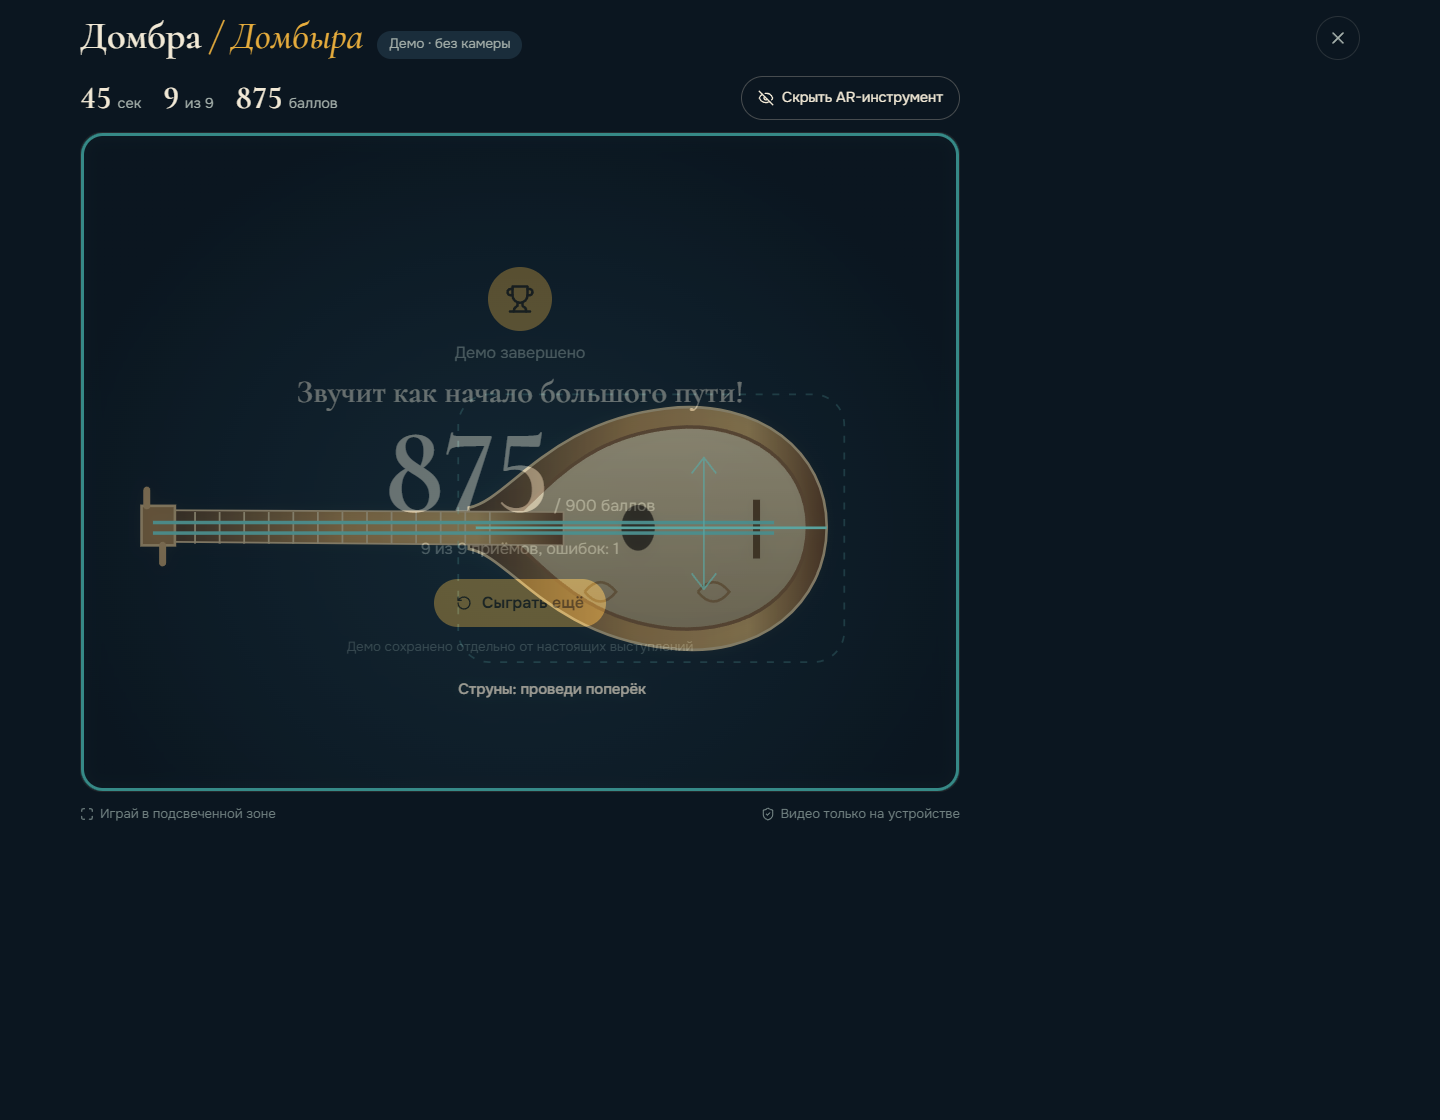
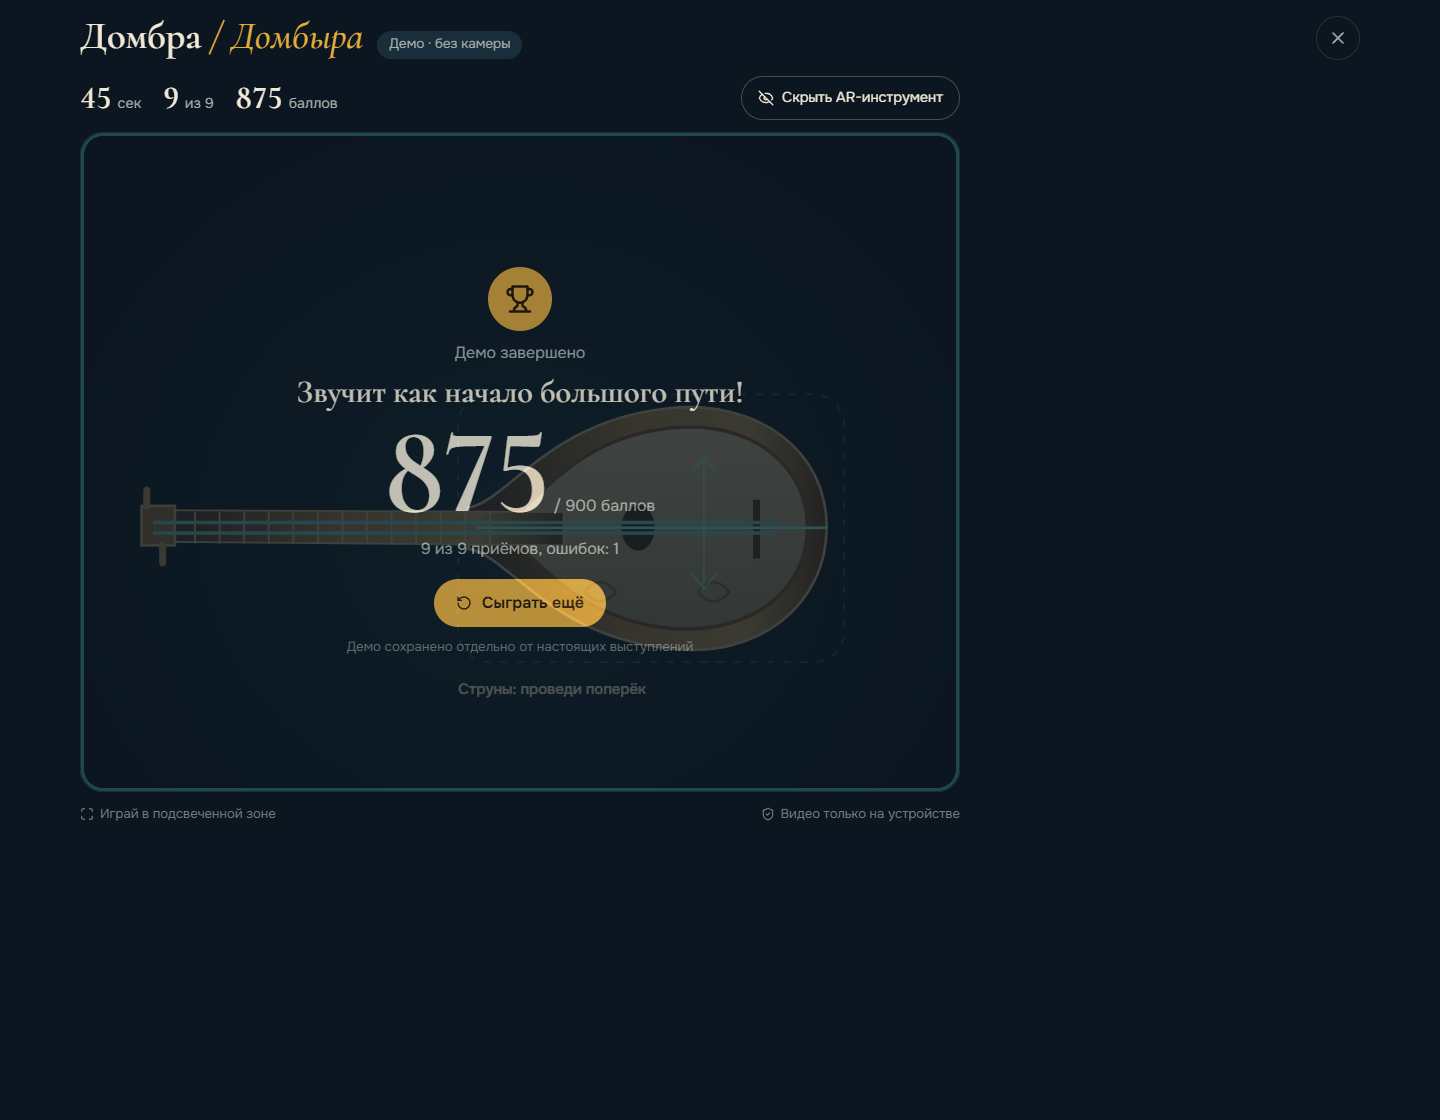
optimization and mobile port

Changed region(s): [[0.0938, 0.2188, 0.5938, 0.625]]

diff --git a/src/styles.css b/src/styles.css
@@ -1,5 +1,3 @@
-@import url('https://fonts.googleapis.com/css2?family=Cormorant:ital,wght@0,500;0,600;0,700;1,500;1,600&family=Onest:wght@400;500;600;700&display=swap');
-
 /* ── Tokens ───────────────────────────────────────────────
    night  – the steppe after dark, the stage everything plays on
    bone   – felt and paper, for text and lit surfaces
@@ -117,7 +115,7 @@ h3.display { font-size: clamp(1.6rem, 2.6vw, 2.1rem); line-height: 1.08; }
   border-radius: 50% 50% 22px 22px / 240px 240px 22px 22px;
   border: 1px solid var(--line);
   background: radial-gradient(120% 70% at 50% 18%, var(--tint), transparent 70%), var(--felt);
-  animation: arch-rise 520ms var(--ease) both;
+  animation: arch-rise 420ms var(--ease) both;
   animation-delay: calc(var(--i, 0) * 70ms + 80ms);
 }
 .arch.sand { --tint: #5b3f1d; }
@@ -126,7 +124,7 @@ h3.display { font-size: clamp(1.6rem, 2.6vw, 2.1rem); line-height: 1.08; }
 @keyframes arch-rise { from { opacity: 0; transform: translateY(24px); } to { opacity: 1; transform: none; } }
 .arch-tools { position: absolute; z-index: 2; top: 24px; left: 0; right: 0; display: flex; justify-content: center; gap: 8px; }
 .arch-art { flex: 1; display: grid; place-items: center; padding: 64px 24px 0; }
-.arch-art .instrument-art { width: min(78%, 250px); height: auto; transition: transform 320ms var(--ease); filter: drop-shadow(0 22px 28px rgb(0 0 0 / .35)); }
+.arch-art .instrument-art { width: min(78%, 250px); height: auto; transition: transform 240ms var(--ease); filter: drop-shadow(0 22px 28px rgb(0 0 0 / .35)); }
 .arch-body { padding: 8px 28px 28px; display: grid; gap: 6px; text-align: center; justify-items: center; }
 .arch-name { font-family: var(--serif); font-weight: 600; font-size: 2.6rem; line-height: 1; letter-spacing: -.01em; }
 .arch-kz { font-family: var(--serif); font-style: italic; font-size: 1.2rem; color: var(--gold); }
@@ -207,7 +205,7 @@ h3.display { font-size: clamp(1.6rem, 2.6vw, 2.1rem); line-height: 1.08; }
 .about-instrument p { color: var(--bone-dim); }
 
 /* ── Dialog: QR ───────────────────────────────────────── */
-.modal-backdrop { position: fixed; inset: 0; z-index: 60; display: grid; place-items: center; padding: 20px; background: rgb(5 10 15 / .72); backdrop-filter: blur(6px); animation: fade-in 200ms ease-out; }
+.modal-backdrop { position: fixed; inset: 0; z-index: 60; display: grid; place-items: center; padding: 20px; background: rgb(5 10 15 / .72); backdrop-filter: blur(6px); animation: fade-in 200ms var(--ease); }
 .qr-modal { width: min(440px, 100%); max-height: 100%; overflow: auto; padding: 28px; border-radius: 26px; background: var(--felt); border: 1px solid var(--line-strong); display: grid; gap: 14px; animation: pop-in 240ms var(--ease); }
 .modal-header { display: flex; align-items: center; justify-content: space-between; gap: 12px; }
 .qr-modal h2 { font-family: var(--serif); font-size: 2rem; font-weight: 600; line-height: 1.05; }
@@ -223,7 +221,7 @@ h3.display { font-size: clamp(1.6rem, 2.6vw, 2.1rem); line-height: 1.08; }
 /* ── Session ──────────────────────────────────────────── */
 .session-sheet { position: fixed; inset: 0; z-index: 50; overflow-y: auto; background: var(--night); animation: sheet-in 260ms var(--ease); overscroll-behavior: contain; }
 @keyframes sheet-in { from { opacity: 0; transform: translateY(14px); } }
-.session-inner { min-height: 100%; max-width: 1360px; margin: 0 auto; padding: 16px clamp(16px, 3vw, 40px) 28px; display: flex; flex-direction: column; gap: 16px; }
+.session-inner { min-height: 100%; max-width: 1360px; margin: 0 auto; padding: max(16px, env(safe-area-inset-top)) max(clamp(16px, 3vw, 40px), env(safe-area-inset-right)) max(28px, env(safe-area-inset-bottom)) max(clamp(16px, 3vw, 40px), env(safe-area-inset-left)); display: flex; flex-direction: column; gap: 16px; }
 .session-top { display: flex; align-items: center; gap: 16px; }
 .session-title { display: flex; align-items: baseline; gap: 14px; flex-wrap: wrap; min-width: 0; }
 .session-title h2 { font-family: var(--serif); font-weight: 600; font-size: clamp(1.7rem, 3vw, 2.4rem); line-height: 1; }
@@ -259,7 +257,7 @@ h3.display { font-size: clamp(1.6rem, 2.6vw, 2.1rem); line-height: 1.08; }
 @media (hover: hover) and (pointer: fine) { .ar-toggle:hover { border-color: var(--bone); color: var(--bone); } }
 
 .camera-stage { position: relative; display: grid; place-items: center; width: 100%; aspect-ratio: 4 / 3; max-height: calc(100dvh - 190px); min-height: 260px; border-radius: 22px; overflow: hidden; background: #060d13; border: 1px solid var(--line); }
-.camera-stage::after { content: ''; position: absolute; inset: 0; border-radius: inherit; box-shadow: inset 0 0 0 3px var(--kok); opacity: 0; pointer-events: none; z-index: 4; transition: opacity 500ms ease-out; }
+.camera-stage::after { content: ''; position: absolute; inset: 0; border-radius: inherit; box-shadow: inset 0 0 0 3px var(--kok); opacity: 0; pointer-events: none; z-index: 4; transition: opacity 500ms var(--ease); }
 .camera-stage.note-flash::after { opacity: 1; transition-duration: 0ms; }
 .camera-viewport { position: relative; overflow: hidden; flex-shrink: 0; background: radial-gradient(ellipse at 50% 60%, #17303d, #0b1620 78%); }
 .camera-viewport video, .camera-viewport canvas { position: absolute; inset: 0; width: 100%; height: 100%; object-fit: fill; }
@@ -267,25 +265,25 @@ h3.display { font-size: clamp(1.6rem, 2.6vw, 2.1rem); line-height: 1.08; }
 .camera-viewport canvas { z-index: 2; pointer-events: none; }
 .ar-overlay { position: absolute; inset: 0; width: 100%; height: 100%; z-index: 1; pointer-events: none; }
 .ar-overlay text { font-family: var(--sans); fill: var(--bone); stroke: none; font-size: 17px; font-weight: 500; }
-.ar-ripple { transform-box: fill-box; transform-origin: center; animation: ripple 600ms ease-out both; }
+.ar-ripple { transform-box: fill-box; transform-origin: center; animation: ripple 400ms var(--ease) both; }
 @keyframes ripple { from { opacity: .9; transform: scale(.5); } to { opacity: 0; transform: scale(1.6); } }
 
-.camera-status { position: absolute; z-index: 5; top: 14px; left: 14px; display: inline-flex; align-items: center; gap: 8px; min-height: 32px; padding: 0 14px 0 12px; border-radius: 999px; background: rgb(11 22 32 / .72); backdrop-filter: blur(8px); font-size: .85rem; font-weight: 500; }
+.camera-status { position: absolute; z-index: 5; top: 14px; left: 14px; display: inline-flex; align-items: center; gap: 8px; min-height: 32px; padding: 0 14px 0 12px; border-radius: 999px; background: rgb(11 22 32 / .86); font-size: .85rem; font-weight: 500; }
 .live-dot { width: 8px; height: 8px; border-radius: 50%; background: var(--kok); }
 .live-dot.muted { background: var(--gold); }
 
-.stage-overlay { position: absolute; inset: 0; z-index: 6; display: grid; place-content: center; justify-items: center; gap: 12px; padding: 24px; text-align: center; background: rgb(11 22 32 / .86); backdrop-filter: blur(6px); animation: fade-in 220ms ease-out; }
+.stage-overlay { position: absolute; inset: 0; z-index: 6; display: grid; place-content: center; justify-items: center; gap: 12px; padding: 24px; text-align: center; background: rgb(11 22 32 / .92); animation: fade-in 220ms var(--ease); }
 .stage-overlay h3 { font-family: var(--serif); font-size: 2rem; font-weight: 600; line-height: 1.05; }
 .stage-overlay p { color: var(--bone-dim); max-width: 32ch; }
 .stage-overlay small { color: var(--bone-faint); max-width: 40ch; }
 .spin { animation: spin 1.1s linear infinite; color: var(--gold); }
 @keyframes spin { to { transform: rotate(360deg); } }
 
-.motion-ready-label, .demo-ready { position: absolute; z-index: 5; left: 50%; bottom: 16px; transform: translateX(-50%); width: min(420px, calc(100% - 32px)); display: grid; gap: 4px; justify-items: center; text-align: center; padding: 14px 18px; border-radius: 16px; background: rgb(11 22 32 / .82); backdrop-filter: blur(8px); }
+.motion-ready-label, .demo-ready { position: absolute; z-index: 5; left: 50%; bottom: 16px; transform: translateX(-50%); width: min(420px, calc(100% - 32px)); display: grid; gap: 4px; justify-items: center; text-align: center; padding: 14px 18px; border-radius: 16px; background: rgb(11 22 32 / .9); }
 .motion-ready-label span, .demo-ready p { color: var(--bone-dim); font-size: .875rem; }
 .demo-ready { gap: 12px; }
 .ready-meter { width: 100%; height: 4px; border-radius: 2px; background: var(--felt-2); overflow: hidden; margin-top: 6px; }
-.ready-meter i { display: block; height: 100%; background: var(--gold); transform-origin: left; transform: scaleX(var(--p, 0)); }
+.ready-meter i { display: block; height: 100%; background: var(--gold); transform-origin: left; transform: scaleX(var(--p, 0)); transition: transform 80ms linear; }
 
 .result-overlay { gap: 10px; }
 .trophy-circle { width: 64px; height: 64px; display: grid; place-items: center; border-radius: 50%; background: var(--gold); color: var(--gold-ink); animation: pop-in 380ms var(--ease) both; }
@@ -339,7 +337,8 @@ h3.display { font-size: clamp(1.6rem, 2.6vw, 2.1rem); line-height: 1.08; }
 @media (max-width: 1000px) {
   .session-play { grid-template-columns: 1fr; }
   .session-side { position: static; }
-  .camera-stage { max-height: 70dvh; }
+  .camera-stage { max-height: 54dvh; }
+  .coach-feedback { min-height: 0; }
   .mistake, .two-col { grid-template-columns: 1fr; }
 }
 @media (max-width: 820px) {
@@ -369,7 +368,15 @@ h3.display { font-size: clamp(1.6rem, 2.6vw, 2.1rem); line-height: 1.08; }
   .ar-toggle { padding: 0 12px; font-size: .82rem; }
   .coach-text b { font-size: 1.45rem; }
   .gesture-control small { display: none; }
-  .camera-stage { max-height: 56dvh; }
+  .camera-stage { max-height: 48dvh; border-radius: 16px; }
+  .session-bar { gap: 8px; }
+  .ar-overlay text { font-size: 30px; font-weight: 600; paint-order: stroke; stroke: var(--night); stroke-width: 5px; }
+  .session-footer span:last-child { display: none; }
+}
+@media (max-height: 520px) and (orientation: landscape) {
+  .session-play { grid-template-columns: minmax(0, 1fr) 300px; }
+  .camera-stage { max-height: calc(100dvh - 120px); }
+  .session-side { position: static; }
 }
 
 /* Reduced motion keeps opacity/colour changes, drops movement */

diff --git a/src/components/Session.tsx b/src/components/Session.tsx
@@ -58,6 +58,15 @@ export function Session({ instrument, close, onComplete }: { instrument: Instrum
   useEffect(()=>{if(phase!=='playing')return;const interval=setInterval(()=>{const remaining=Math.max(0,45-Math.floor((Date.now()-state.current.start-(pause.current.since?Date.now()-pause.current.since:0))/1000));setSeconds(remaining);if(!remaining)finishRef.current();},200);return()=>clearInterval(interval);},[phase]);
   useEffect(()=>()=>{clearTimeout(flashTimeout.current);clearTimeout(noteTimeout.current);stopBow();},[]);
   useEffect(()=>{try{localStorage.setItem('mura-show-ar',String(showAR));}catch{/* Optional preference. */}},[showAR]);
+  // Phones dim the screen while nobody touches it; keep it awake during a performance.
+  useEffect(()=>{
+    if(!mode||!('wakeLock' in navigator))return;
+    let lock:WakeLockSentinel|undefined;
+    const request=async()=>{try{lock=await navigator.wakeLock.request('screen');}catch{/* Optional: denied in low-power mode. */}};
+    const onVisible=()=>{if(!document.hidden)void request();};
+    void request();document.addEventListener('visibilitychange',onVisible);
+    return()=>{document.removeEventListener('visibilitychange',onVisible);void lock?.release();};
+  },[mode]);
   useEffect(()=>{
     const el=stage.current;if(!el)return;
     const resize=()=>{const width=Math.min(el.clientWidth,el.clientHeight*aspect);setViewport({width,height:width/aspect});};
@@ -177,7 +186,7 @@ export function Session({ instrument, close, onComplete }: { instrument: Instrum
           <div className="session-stats"><span><b>{seconds}</b> {trackingPaused?'пауза':'сек'}</span><span><b>{index}</b> из 9</span><span><b>{score}</b> баллов</span></div>
           <button className={`ar-toggle ${showAR?'is-on':''}`} aria-pressed={showAR} onClick={()=>setShowAR(!showAR)}>{showAR?<EyeOff size={16}/>:<Eye size={16}/>} {showAR?'Скрыть AR-инструмент':'Показать AR-инструмент'}</button>
         </div>
-        <div ref={stage} className={`camera-stage motion-stage ${flash?'note-flash':''}`}>
+        <div ref={stage} className={`camera-stage motion-stage ${flash?'note-flash':''}`} style={{aspectRatio:aspect}}>
           <div className="camera-viewport" style={{width:viewport.width||'100%',height:viewport.height||'100%'}}>
             {mode==='live'&&<><video ref={video} muted playsInline autoPlay onLoadedMetadata={e=>{const v=e.currentTarget;setAspect(v.videoWidth/v.videoHeight||4/3);}}/><canvas ref={canvas}/></>}
             {!loading&&!error&&<ARInstrument instrument={instrument.id} visible={showAR} point={contact} trace={trace} active={recognized} target={phase==='playing'||phase==='ready'?guidance.target:undefined} ready={mode==='live'&&phase==='ready'} progress={readyProgress}/>}

diff --git a/index.html b/index.html
@@ -1,1 +1,1 @@
-<!doctype html><html lang="ru"><head><meta charset="UTF-8"/><meta name="viewport" content="width=device-width, initial-scale=1.0"/><meta name="theme-color" content="#0b1620"/><meta name="description" content="MURA — интерактивный музей казахских музыкальных инструментов. Сыграйте на домбре, кобызе и дауылпазе жестами через камеру."/><title>MURA — Музыка в твоих руках</title><link rel="icon" href="/favicon.svg"/></head><body><div id="root"></div><script type="module" src="/src/main.tsx"></script></body></html>
+<!doctype html><html lang="ru"><head><meta charset="UTF-8"/><meta name="viewport" content="width=device-width, initial-scale=1.0, viewport-fit=cover"/><meta name="theme-color" content="#0b1620"/><meta name="description" content="MURA — интерактивный музей казахских музыкальных инструментов. Сыграйте на домбре, кобызе и дауылпазе жестами через камеру."/><title>MURA — Музыка в твоих руках</title><link rel="icon" href="/favicon.svg"/><link rel="manifest" href="/manifest.webmanifest"/><meta name="apple-mobile-web-app-capable" content="yes"/><meta name="mobile-web-app-capable" content="yes"/><meta name="apple-mobile-web-app-status-bar-style" content="black-translucent"/><link rel="preconnect" href="https://fonts.googleapis.com"/><link rel="preconnect" href="https://fonts.gstatic.com" crossorigin/><link rel="stylesheet" href="https://fonts.googleapis.com/css2?family=Cormorant:ital,wght@0,500;0,600;0,700;1,500;1,600&family=Onest:wght@400;500;600;700&display=swap"/></head><body><div id="root"></div><script type="module" src="/src/main.tsx"></script></body></html>

diff --git a/src/App.tsx b/src/App.tsx
@@ -84,7 +84,11 @@ export default function App() {
 
   useEffect(() => () => { clearTimeout(previewTimer.current); clearTimeout(previewEnd.current); clearTimeout(copyTimer.current); }, []);
 
-  function navigate(p: Page) { setPage(p); window.scrollTo({ top: 0, behavior: 'smooth' }); }
+  function navigate(p: Page) {
+    setPage(p);
+    const calm = window.matchMedia('(prefers-reduced-motion: reduce)').matches;
+    window.scrollTo({ top: 0, behavior: calm ? 'auto' : 'smooth' });
+  }
 
   async function listen(i: Instrument) {
     clearTimeout(previewTimer.current); clearTimeout(previewEnd.current);
